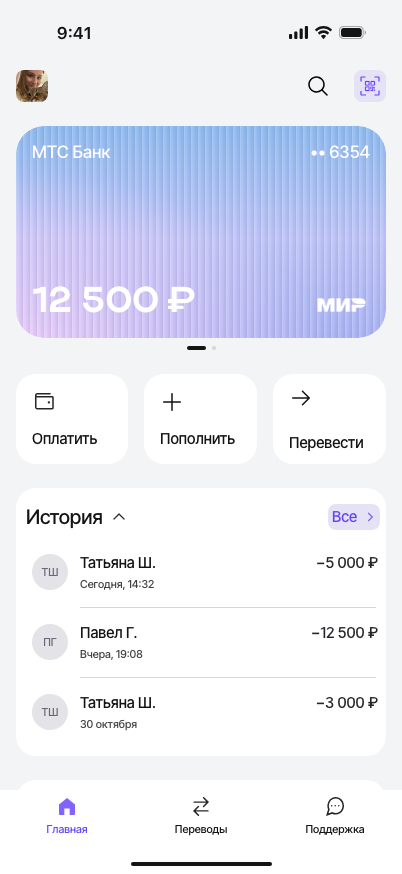
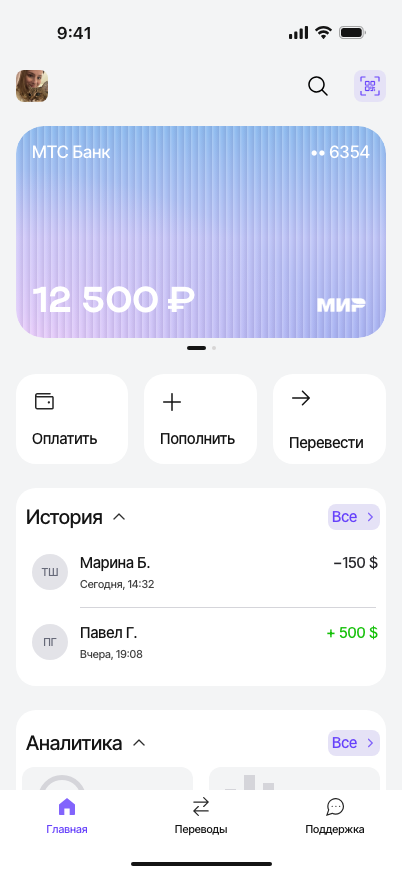
Update home history content to Figma reference

diff --git a/src/app.js b/src/app.js
@@ -78,7 +78,7 @@ function openScreen({ title, recipient, operation, card, transferKind, fromTrans
   detail.classList.toggle('transfer-details', !!operation || title === 'Детали перевода');
   let content = '<p>Этот экран появится позже.</p>';
   if (recipient) content = `<div class="avatar detail-avatar" style="--avatar:${recipient.color}">${recipient.logo ? image(recipient.logo) : escapeHTML(recipient.initials)}</div><h2>${escapeHTML(recipient.name)}</h2><p>${escapeHTML(recipient.destination)}</p><p>С карты *${escapeHTML(card.last4)}</p><p class="demo-note">Демонстрационный перевод. Списаний не будет.</p>`;
-  if (operation) content = `<h2>${escapeHTML(operation.name)}</h2><p class="detail-amount">${operation.amount < 0 ? '−' : '+'}${money(operation.amount)}</p><dl><dt>Дата</dt><dd>${escapeHTML(operation.date)}</dd><dt>Статус</dt><dd>${escapeHTML(operation.status)}</dd><dt>Карта</dt><dd>*${escapeHTML(card.last4)}</dd></dl><p class="demo-note">Демонстрационная операция</p>`;
+  if (operation) content = `<h2>${escapeHTML(operation.name)}</h2><p class="detail-amount">${operation.amount < 0 ? '−' : '+'}${money(operation.amount, operation.currency)}</p><dl><dt>Дата</dt><dd>${escapeHTML(operation.date)}</dd><dt>Статус</dt><dd>${escapeHTML(operation.status)}</dd><dt>Карта</dt><dd>*${escapeHTML(card.last4)}</dd></dl><p class="demo-note">Демонстрационная операция</p>`;
   detail.innerHTML = `<button class="back detail-back" aria-label="Назад"><img src="./assets/images/back-chevron.svg" alt=""></button><h1 tabindex="-1">${escapeHTML(title)}</h1><section class="detail-content">${content}</section>`;
   if(operation) {
     const repeat=document.createElement('button');repeat.className='authorized-continue';repeat.textContent='Повторить перевод';

diff --git a/src/data.js b/src/data.js
@@ -11,8 +11,8 @@ export const demoData = {
     { id: 'marina', name: 'Марина Б.', subtitle: 'RU •• 6382', initials: 'М', color: '#e3e3e8', destination: 'RU •• 6382' },
   ],
   transactions: [
-    { id: 't1', cardId: 'debit', name: 'Татьяна Ш.', initials: 'ТШ', color: '#d4b6ff', date: 'Сегодня, 14:32', amount: -5000, status: 'Выполнен' },
-    { id: 't2', cardId: 'debit', name: 'Павел Г.', initials: 'ПГ', color: '#fb9338', date: 'Вчера, 19:08', amount: -12500, status: 'Выполнен' },
+    { id: 't1', cardId: 'debit', name: 'Марина Б.', initials: 'ТШ', color: '#e3e3e8', date: 'Сегодня, 14:32', amount: -150, currency: 'USD', status: 'Выполнен' },
+    { id: 't2', cardId: 'debit', name: 'Павел Г.', initials: 'ПГ', color: '#e3e3e8', date: 'Вчера, 19:08', amount: 500, currency: 'USD', status: 'Выполнен' },
     { id: 't3', cardId: 'debit', name: 'Татьяна Ш.', initials: 'ТШ', color: '#c095fd', date: '30 октября', amount: -3000, status: 'Выполнен' },
     { id: 't4', cardId: 'second', name: 'Мама', initials: 'М', color: '#d4b6ff', date: 'Сегодня, 10:15', amount: -1500, status: 'Выполнен' },
   ],

diff --git a/src/home-screen.js b/src/home-screen.js
@@ -55,11 +55,11 @@ export function createHomeScreen({ data, onNavigate }) {
   const track = screen.querySelector('.card-track');
   const list = screen.querySelector('.operations');
   function renderOperations() {
-    list.innerHTML = operationsFor(data, data.cards[active].id).map(item => `
+    list.innerHTML = operationsFor(data, data.cards[active].id).slice(0, 2).map(item => `
       <button class="operation" data-operation="${escapeHTML(item.id)}">
         <span class="avatar" style="--avatar:${item.color}">${escapeHTML(item.initials)}</span>
         <span class="operation-copy"><span class="operation-name">${escapeHTML(item.name)}</span><span class="operation-date">${escapeHTML(item.date)}</span></span>
-        <span class="operation-amount">${item.amount < 0 ? '−' : '+'}${money(item.amount)}</span>
+        <span class="operation-amount ${item.amount > 0 ? 'operation-amount--incoming' : ''}">${item.amount < 0 ? '−' : '+ '}${money(item.amount, item.currency)}</span>
         <span class="divider" aria-hidden="true"></span>
       </button>`).join('') || '<p class="empty-history">Пока нет операций</p>';
   }

diff --git a/src/styles.css b/src/styles.css
@@ -403,6 +403,7 @@ button,article {
   overflow-wrap:anywhere;
   text-align:right;
 }
+.operation-amount--incoming { color:#14c008; }
 .divider {
   position:absolute;
   bottom:0;
@@ -935,7 +936,7 @@ body:has(.home-screen:not([hidden])) { background:#f3f4f5; }
 .home-screen .quick-actions { grid-template-columns:repeat(3,minmax(0,1fr)); }
 .home-screen .quick-actions button { height:90px; min-height:90px; padding:16px; flex-direction:column; align-items:flex-start; justify-content:space-between; gap:16px; font-size:15px; line-height:18px; }
 .home-screen .quick-actions button img { width:24px; height:24px; }
-.home-screen .history { margin-top:24px; padding-top:0; }
+.home-screen .history { margin-top:24px; min-height:198px; padding-top:0; }
 .home-screen h2 { letter-spacing:-.2px; }
 .home-screen .history-heading { height:50px; padding:0 6px 0 10px; }
 .home-screen .history-heading>button { transform:translateY(4px); }
